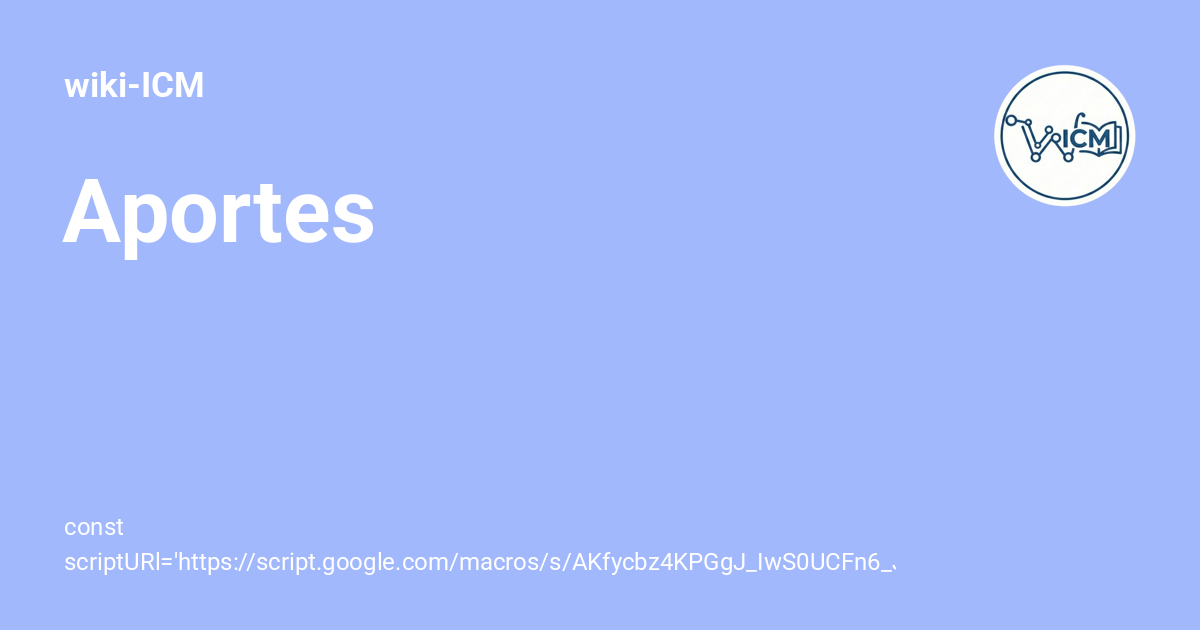
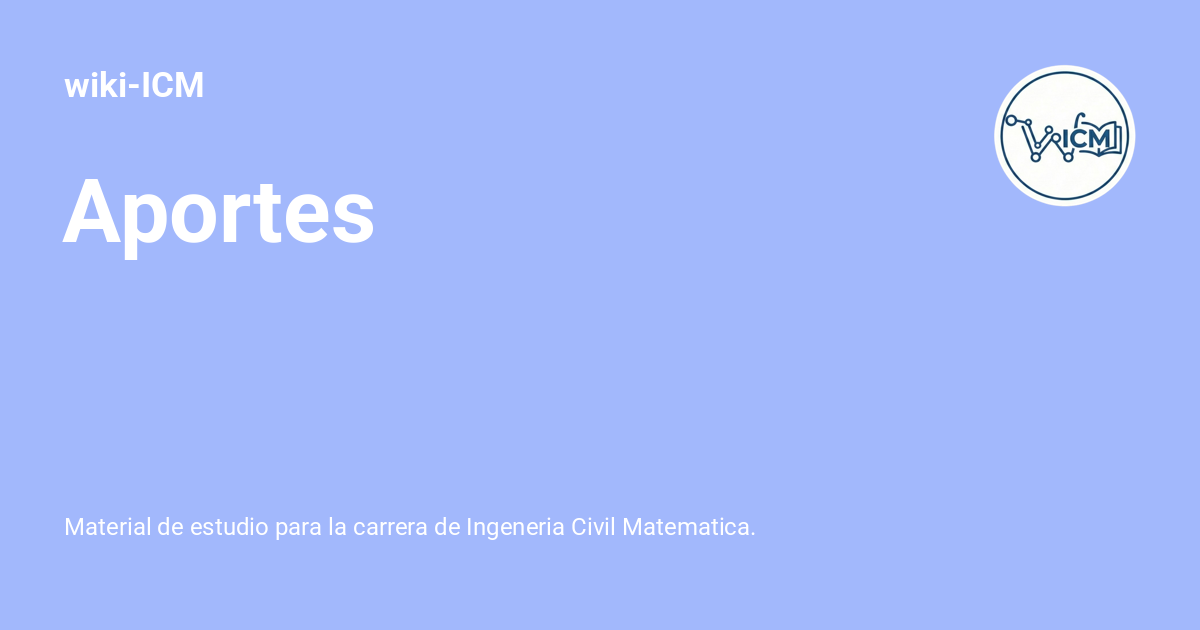
aportes 3

Changed region(s): [[0.0617, 0.8143, 0.74, 0.9048]]

diff --git a/site/aportes/index.html b/site/aportes/index.html
@@ -6,7 +6,7 @@
       <meta charset="utf-8">
       <meta name="viewport" content="width=device-width,initial-scale=1">
       
-        <meta name="description" content="const scriptURl=&#x27;https://script.google.com/macros/s/AKfycbz4KPGgJ_IwS0UCFn6_JtEkMBSrR7lAvwxw8NzIlhEQAw2T7tsPABaQtdNunOXyToy5BQ/exec&#x27;">
+        <meta name="description" content="Material de estudio para la carrera de Ingeneria Civil Matematica.">
       
       
       
@@ -59,7 +59,7 @@
   
 <meta property="og:type" content="website" />
 <meta property="og:title" content="Aportes - wiki-ICM" />
-<meta property="og:description" content="const scriptURl=&#x27;https://script.google.com/macros/s/AKfycbz4KPGgJ_IwS0UCFn6_JtEkMBSrR7lAvwxw8NzIlhEQAw2T7tsPABaQtdNunOXyToy5BQ/exec&#x27;" />
+<meta property="og:description" content="Material de estudio para la carrera de Ingeneria Civil Matematica." />
 <meta property="og:image" content="https://wiki-icm.github.io/assets/images/social/aportes.png" />
 <meta property="og:image:type" content="image/png" />
 <meta property="og:image:width" content="1200" />
@@ -67,7 +67,7 @@
 <meta property="og:url" content="https://wiki-icm.github.io/aportes/" />
 <meta property="twitter:card" content="summary_large_image" />
 <meta property="twitter:title" content="Aportes - wiki-ICM" />
-<meta property="twitter:description" content="const scriptURl=&#x27;https://script.google.com/macros/s/AKfycbz4KPGgJ_IwS0UCFn6_JtEkMBSrR7lAvwxw8NzIlhEQAw2T7tsPABaQtdNunOXyToy5BQ/exec&#x27;" />
+<meta property="twitter:description" content="Material de estudio para la carrera de Ingeneria Civil Matematica." />
 <meta property="twitter:image" content="https://wiki-icm.github.io/assets/images/social/aportes.png" />
 </head>
   
@@ -1193,16 +1193,97 @@
 
   <h1>Aportes</h1>
 
-<p>const scriptURl='https://script.google.com/macros/s/AKfycbz4KPGgJ_IwS0UCFn6_JtEkMBSrR7lAvwxw8NzIlhEQAw2T7tsPABaQtdNunOXyToy5BQ/exec'</p>
+<div style="margin-bottom: 15px; text-align: center;">
+  <label for="select-ano"><strong>Año:</strong></label>
+  <select id="select-ano" style="padding: 5px; margin-right: 15px; border-radius: 5px;">
+    <option value="">Selecciona...</option>
+    <option value="1er Año">1er Año</option>
+    <option value="2do Año">2do Año</option>
+    <option value="3er Año">3er Año</option>
+    <option value="4to Año">4to Año</option>
+    <option value="5to Año">5to Año</option>
+    <option value="Otro">Otro / General</option>
+  </select>
+
+  <label for="input-ramo"><strong>Ramo:</strong></label>
+  <input type="text" id="input-ramo" placeholder="Ej: Álgebra, Cálculo..." style="padding: 5px; border-radius: 5px; width: 200px;">
+</div>
+
+<div id="zona-arrastre" style="border: 3px dashed #4051b5; border-radius: 10px; padding: 60px; text-align: center; background-color: rgba(64, 81, 181, 0.05); margin: 20px 0; cursor: pointer;">
+  <strong>Arrastra el material nuevo aquí</strong><br>
+  <span style="font-size: 0.9em; color: #666;">(Asegúrate de poner el Año y el Ramo arriba primero)</span>
+</div>
+
+<script>
+  const zonaArrastre = document.getElementById('zona-arrastre');
+  const selectAno = document.getElementById('select-ano');
+  const inputRamo = document.getElementById('input-ramo');
+
+  zonaArrastre.addEventListener('dragover', (e) => {
+    e.preventDefault();
+    zonaArrastre.style.backgroundColor = 'rgba(64, 81, 181, 0.2)';
+  });
+
+  zonaArrastre.addEventListener('dragleave', () => {
+    zonaArrastre.style.backgroundColor = 'rgba(64, 81, 181, 0.05)';
+  });
+
+  zonaArrastre.addEventListener('drop', (e) => {
+    e.preventDefault();
+    zonaArrastre.style.backgroundColor = 'rgba(64, 81, 181, 0.05)';
+
+    const file = e.dataTransfer.files[0];
+    if (!file) return;
+
+    // Validación para que no suban hueás sin etiquetar
+    if (!selectAno.value || !inputRamo.value.trim()) {
+      zonaArrastre.innerHTML = '<strong style="color: red;">¡Oye! Llena el Año y el Ramo primero.</strong>';
+      setTimeout(() => {
+        zonaArrastre.innerHTML = '<strong>Arrastra el material nuevo aquí</strong><br><span style="font-size: 0.9em; color: #666;">(Asegúrate de poner el Año y el Ramo arriba primero)</span>';
+      }, 3500);
+      return;
+    }
+
+    zonaArrastre.innerHTML = '<strong>Subiendo archivo... aguanta un rato.</strong>';
+
+    const reader = new FileReader();
+    reader.onload = function(event) {
+      const base64Data = event.target.result.split(',')[1];
+
+      const formData = new URLSearchParams();
+      formData.append('fileName', file.name);
+      formData.append('mimeType', file.type);
+      formData.append('fileData', base64Data);
+      formData.append('ano', selectAno.value);
+      formData.append('ramo', inputRamo.value.trim());
+
+      const scriptURL = 'https://script.google.com/macros/s/AKfycbz4KPGgJ_IwS0UCFn6_JtEkMBSrR7lAvwxw8NzIlhEQAw2T7tsPABaQtdNunOXyToy5BQ/exec';
+
+      fetch(scriptURL, {
+        method: 'POST',
+        body: formData,
+        mode: 'no-cors'
+      }).then(() => {
+        zonaArrastre.innerHTML = '<strong style="color: green;">¡Archivo subido al tiro! Gracias por apañar.</strong>';
+        selectAno.value = ''; 
+        inputRamo.value = '';
+        setTimeout(() => {
+          zonaArrastre.innerHTML = '<strong>Arrastra más material aquí</strong>';
+        }, 3500);
+      }).catch(error => {
+        zonaArrastre.innerHTML = '<strong style="color: red;">Chuta, hubo un error. Intenta de nuevo.</strong>';
+      });
+    };
+
+    reader.readAsDataURL(file);
+  });
+</script>
 
 
 
 
 
 
-
-  
-  
 
 
 

diff --git a/docs/index.md b/docs/index.md
@@ -18,8 +18,93 @@ Los recursos están organizados siguiendo la malla curricular de la carrera:
 * :material-plus-box: **Recursos Adicionales:** Otros ramos electivos o de otras carreras relacionadas.
 
 ---
+## Aportes
 
+<div style="margin-bottom: 15px; text-align: center;">
+  <label for="select-ano"><strong>Año:</strong></label>
+  <select id="select-ano" style="padding: 5px; margin-right: 15px; border-radius: 5px;">
+    <option value="">Selecciona...</option>
+    <option value="1er Año">1er Año</option>
+    <option value="2do Año">2do Año</option>
+    <option value="3er Año">3er Año</option>
+    <option value="4to Año">4to Año</option>
+    <option value="5to Año">5to Año</option>
+    <option value="Electivo"> Electivos </option>
+    <option value="Otro">Otro </option>
+  </select>
 
+  <label for="input-ramo"><strong>Ramo:</strong></label>
+  <input type="text" id="input-ramo" placeholder="Ej: Álgebra 1, Cálculo 1..." style="padding: 5px; border-radius: 5px; width: 200px;">
+</div>
+
+<div id="zona-arrastre" style="border: 3px dashed #4051b5; border-radius: 10px; padding: 60px; text-align: center; background-color: rgba(64, 81, 181, 0.05); margin: 20px 0; cursor: pointer;">
+  <strong>Arrastra el material nuevo aquí</strong><br>
+  <span style="font-size: 0.9em; color: #666;">(Asegúrate de poner el Año y el Ramo arriba primero)</span>
+</div>
+
+<script>
+  const zonaArrastre = document.getElementById('zona-arrastre');
+  const selectAno = document.getElementById('select-ano');
+  const inputRamo = document.getElementById('input-ramo');
+
+  zonaArrastre.addEventListener('dragover', (e) => {
+    e.preventDefault();
+    zonaArrastre.style.backgroundColor = 'rgba(64, 81, 181, 0.2)';
+  });
+
+  zonaArrastre.addEventListener('dragleave', () => {
+    zonaArrastre.style.backgroundColor = 'rgba(64, 81, 181, 0.05)';
+  });
+
+  zonaArrastre.addEventListener('drop', (e) => {
+    e.preventDefault();
+    zonaArrastre.style.backgroundColor = 'rgba(64, 81, 181, 0.05)';
+    
+    const file = e.dataTransfer.files[0];
+    if (!file) return;
+
+    if (!selectAno.value || !inputRamo.value.trim()) {
+      zonaArrastre.innerHTML = '<strong style="color: red;">Llena el Año y el Ramo primero.</strong>';
+      setTimeout(() => {
+        zonaArrastre.innerHTML = '<strong>Arrastra el material nuevo aquí</strong><br><span style="font-size: 0.9em; color: #666;">(Asegúrate de poner el Año y el Ramo arriba primero)</span>';
+      }, 3500);
+      return;
+    }
+
+    zonaArrastre.innerHTML = '<strong>Subiendo archivo...</strong>';
+
+    const reader = new FileReader();
+    reader.onload = function(event) {
+      const base64Data = event.target.result.split(',')[1];
+      
+      const formData = new URLSearchParams();
+      formData.append('fileName', file.name);
+      formData.append('mimeType', file.type);
+      formData.append('fileData', base64Data);
+      formData.append('ano', selectAno.value);
+      formData.append('ramo', inputRamo.value.trim());
+
+      const scriptURL = 'https://script.google.com/macros/s/AKfycbz4KPGgJ_IwS0UCFn6_JtEkMBSrR7lAvwxw8NzIlhEQAw2T7tsPABaQtdNunOXyToy5BQ/exec';
+
+      fetch(scriptURL, {
+        method: 'POST',
+        body: formData,
+        mode: 'no-cors'
+      }).then(() => {
+        zonaArrastre.innerHTML = '<strong style="color: green;">Archivo subido.</strong>';
+        selectAno.value = ''; 
+        inputRamo.value = '';
+        setTimeout(() => {
+          zonaArrastre.innerHTML = '<strong>Arrastra más material aquí</strong>';
+        }, 3500);
+      }).catch(error => {
+        zonaArrastre.innerHTML = '<strong style="color: red;">Hubo un error. Intenta de nuevo.</strong>';
+      });
+    };
+    
+    reader.readAsDataURL(file);
+  });
+</script>
 
 
 

diff --git a/docs/aportes.md b/docs/aportes.md
@@ -7,11 +7,12 @@
     <option value="3er Año">3er Año</option>
     <option value="4to Año">4to Año</option>
     <option value="5to Año">5to Año</option>
-    <option value="Otro">Otro / General</option>
+    <option value="Electivo"> Electivos </option>
+    <option value="Otro">Otro </option>
   </select>
 
   <label for="input-ramo"><strong>Ramo:</strong></label>
-  <input type="text" id="input-ramo" placeholder="Ej: Álgebra, Cálculo..." style="padding: 5px; border-radius: 5px; width: 200px;">
+  <input type="text" id="input-ramo" placeholder="Ej: Álgebra 1, Cálculo 1..." style="padding: 5px; border-radius: 5px; width: 200px;">
 </div>
 
 <div id="zona-arrastre" style="border: 3px dashed #4051b5; border-radius: 10px; padding: 60px; text-align: center; background-color: rgba(64, 81, 181, 0.05); margin: 20px 0; cursor: pointer;">
@@ -40,16 +41,15 @@
     const file = e.dataTransfer.files[0];
     if (!file) return;
 
-    // Validación para que no suban hueás sin etiquetar
     if (!selectAno.value || !inputRamo.value.trim()) {
-      zonaArrastre.innerHTML = '<strong style="color: red;">¡Oye! Llena el Año y el Ramo primero.</strong>';
+      zonaArrastre.innerHTML = '<strong style="color: red;">Llena el Año y el Ramo primero.</strong>';
       setTimeout(() => {
         zonaArrastre.innerHTML = '<strong>Arrastra el material nuevo aquí</strong><br><span style="font-size: 0.9em; color: #666;">(Asegúrate de poner el Año y el Ramo arriba primero)</span>';
       }, 3500);
       return;
     }
 
-    zonaArrastre.innerHTML = '<strong>Subiendo archivo... aguanta un rato.</strong>';
+    zonaArrastre.innerHTML = '<strong>Subiendo archivo...</strong>';
 
     const reader = new FileReader();
     reader.onload = function(event) {
@@ -69,14 +69,14 @@
         body: formData,
         mode: 'no-cors'
       }).then(() => {
-        zonaArrastre.innerHTML = '<strong style="color: green;">¡Archivo subido al tiro! Gracias por apañar.</strong>';
+        zonaArrastre.innerHTML = '<strong style="color: green;">Archivo subido.</strong>';
         selectAno.value = ''; 
         inputRamo.value = '';
         setTimeout(() => {
           zonaArrastre.innerHTML = '<strong>Arrastra más material aquí</strong>';
         }, 3500);
       }).catch(error => {
-        zonaArrastre.innerHTML = '<strong style="color: red;">Chuta, hubo un error. Intenta de nuevo.</strong>';
+        zonaArrastre.innerHTML = '<strong style="color: red;">Hubo un error. Intenta de nuevo.</strong>';
       });
     };
     
